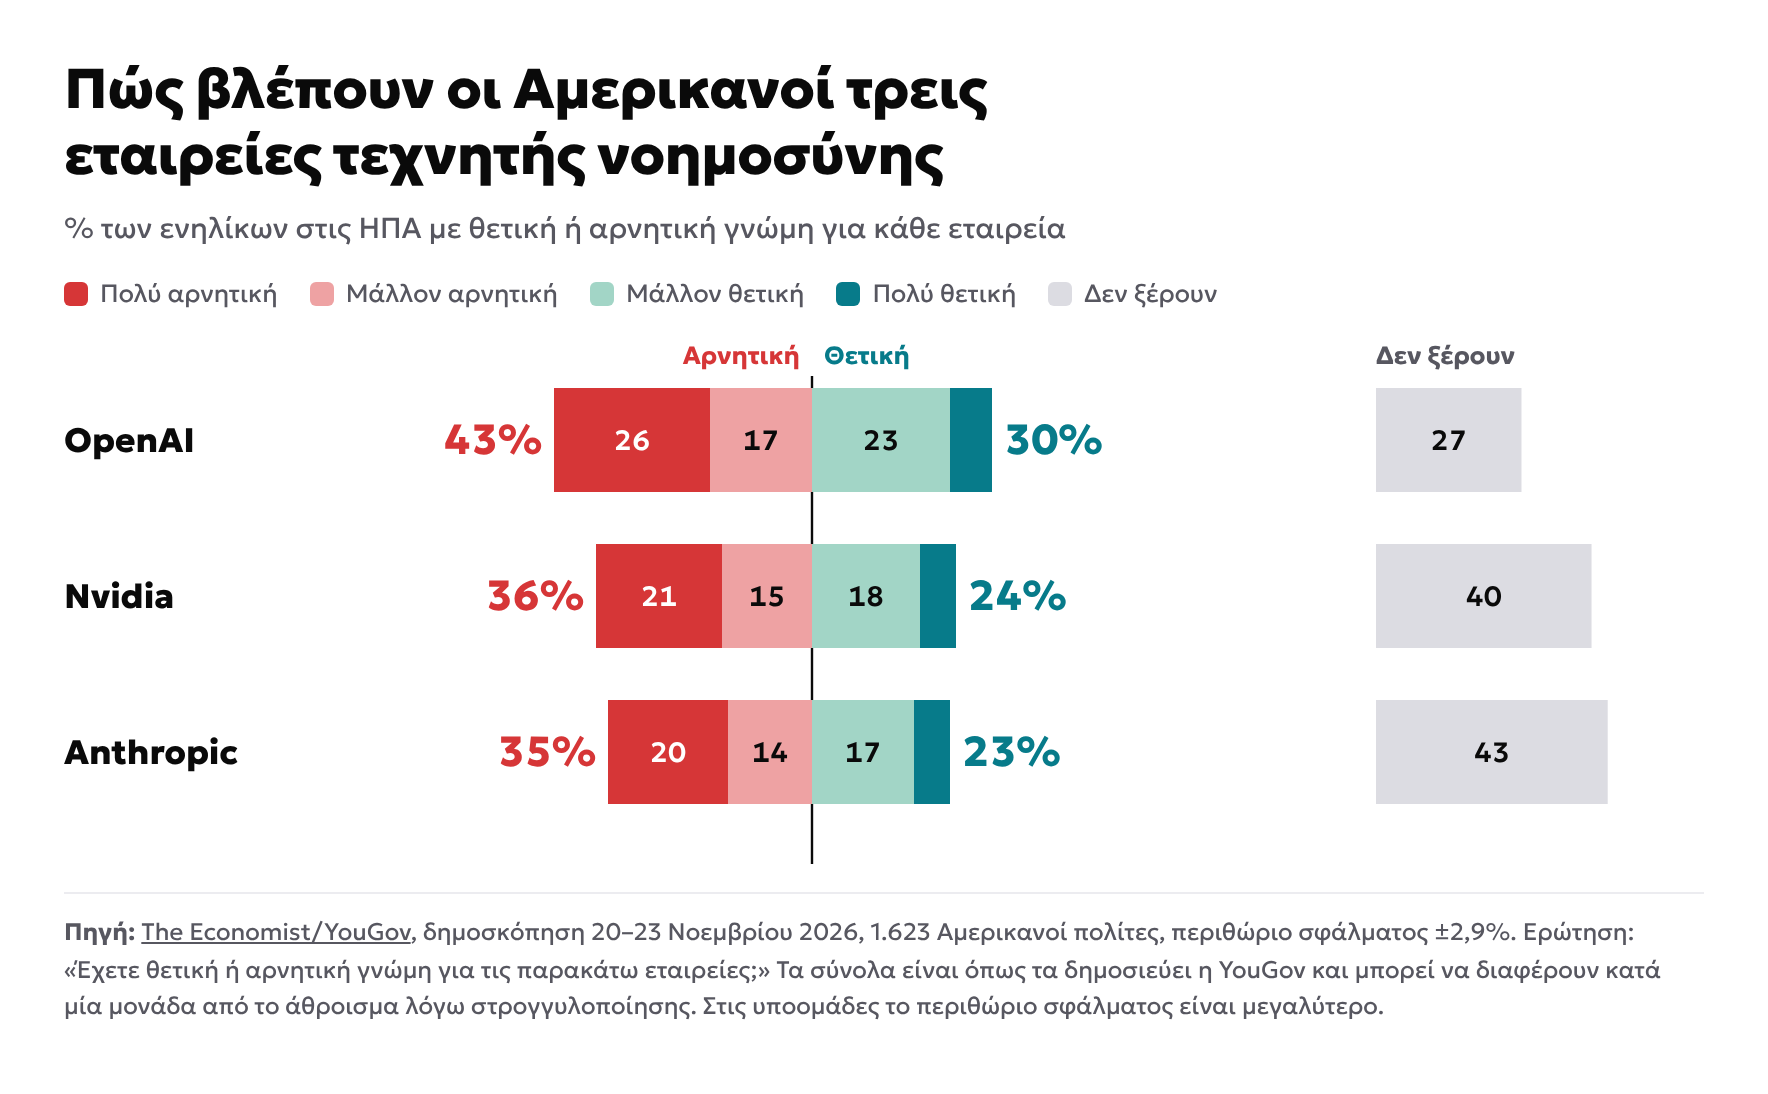
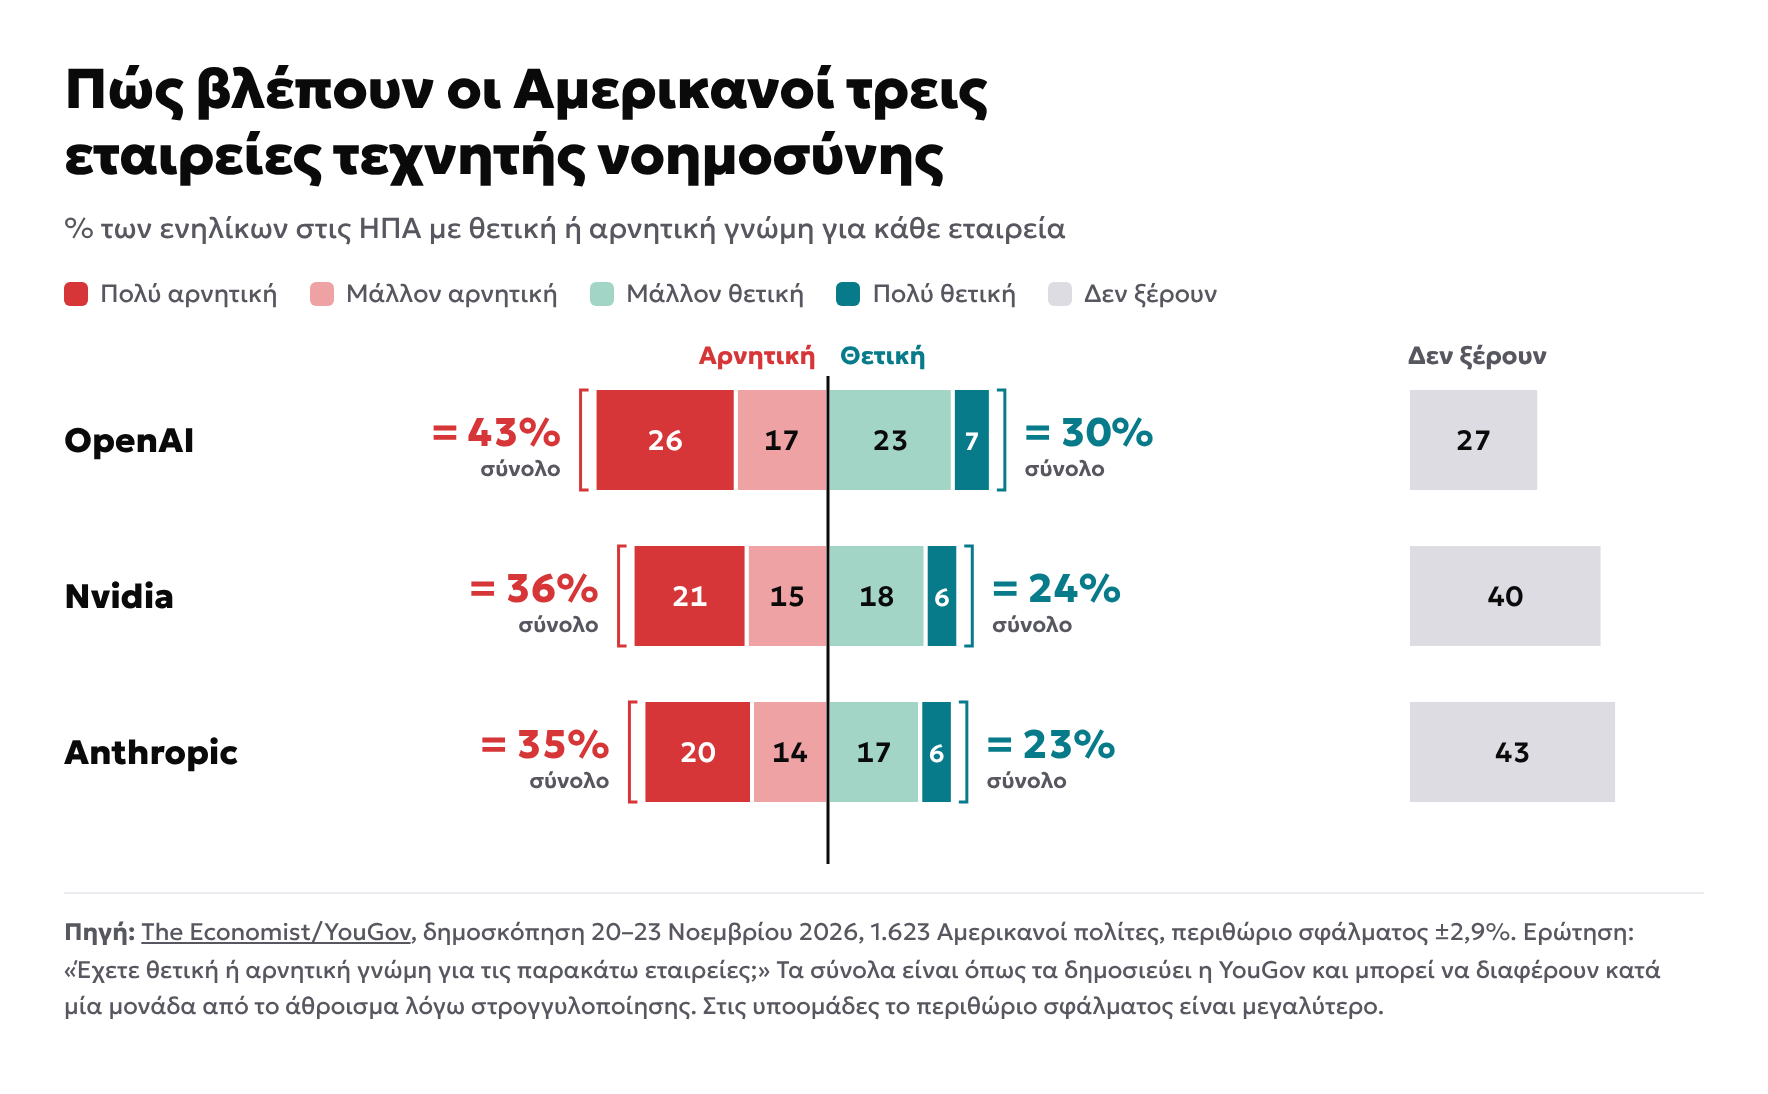
Add files via upload

diff --git a/ai-companies-favorability-2026/index.html b/ai-companies-favorability-2026/index.html
@@ -47,7 +47,9 @@ h1{font-size:clamp(20px,3.4vw,28px);line-height:1.18;font-weight:800;margin:0;te
 .lang button[aria-pressed="true"]{background:var(--fg);color:var(--bg)}
 button:focus-visible,select:focus-visible{outline:2px solid var(--vf);outline-offset:2px}
 .groups{display:flex;align-items:center;gap:8px;font-size:13px;color:var(--muted)}
-.groups select{font:600 13.5px var(--sans);padding:6px 10px;border-radius:8px;border:1px solid var(--axis);background:var(--bg);color:var(--fg);max-width:100%}
+.sel{position:relative;display:inline-block;max-width:100%}
+.sel::after{content:"";position:absolute;right:16px;top:50%;width:7px;height:7px;border-right:2px solid var(--fg);border-bottom:2px solid var(--fg);transform:translateY(-70%) rotate(45deg);pointer-events:none}
+.groups select{appearance:none;-webkit-appearance:none;font:600 13.5px var(--sans);padding:7px 44px 7px 14px;border-radius:999px;border:1px solid var(--axis);background:var(--bg);color:var(--fg);max-width:100%;cursor:pointer}
 .legend{display:flex;flex-wrap:wrap;gap:6px 16px;font-size:12.5px;color:var(--muted)}
 .legend span{display:inline-flex;align-items:center;gap:6px}
 .legend i{width:12px;height:12px;border-radius:3px;flex:none}
@@ -71,7 +73,7 @@ svg{display:block;width:100%;height:auto;font-family:var(--sans);font-variant-nu
     </div>
   </div>
   <p class="dek" id="t-dek"></p>
-  <label class="groups"><span id="l-grp"></span><select id="grp"></select></label>
+  <label class="groups"><span id="l-grp"></span><span class="sel"><select id="grp"></select></span></label>
   <div class="legend" id="legend"></div>
   <div id="chart"><svg id="svg" role="img" aria-labelledby="t-title t-dek"></svg></div>
   <div class="foot" id="foot"></div>
@@ -89,12 +91,12 @@ const T={
  el:{title:"Πώς βλέπουν οι Αμερικανοί τρεις εταιρείες τεχνητής νοημοσύνης",
      dek:"% των ενηλίκων στις ΗΠΑ με θετική ή αρνητική γνώμη για κάθε εταιρεία",grp:"Ομάδα:",
      leg:{vu:"Πολύ αρνητική",su:"Μάλλον αρνητική",sf:"Μάλλον θετική",vf:"Πολύ θετική",dk:"Δεν ξέρουν"},
-     uh:"Αρνητική",fh:"Θετική",dkh:"Δεν ξέρουν",
+     uh:"Αρνητική",fh:"Θετική",sum:"σύνολο",dkh:"Δεν ξέρουν",
      foot:'<p><b>Πηγή:</b> <a href="https://yougov.com/en-us/articles/56042-donald-trump-approval-summit-china-outages-measles-grand-theft-auto-gta6-thanksgiving-november-20-23-2026-economist-yougov-poll" target="_blank" rel="noopener">The Economist/YouGov</a>, δημοσκόπηση 20–23 Νοεμβρίου 2026, 1.623 Αμερικανοί πολίτες, περιθώριο σφάλματος ±2,9%. Ερώτηση: «Έχετε θετική ή αρνητική γνώμη για τις παρακάτω εταιρείες;» Τα σύνολα είναι όπως τα δημοσιεύει η YouGov και μπορεί να διαφέρουν κατά μία μονάδα από το άθροισμα λόγω στρογγυλοποίησης. Στις υποομάδες το περιθώριο σφάλματος είναι μεγαλύτερο.</p>'},
  en:{title:"How Americans view three artificial intelligence companies",
      dek:"% of U.S. adults with a favorable or unfavorable opinion of each company",grp:"Group:",
      leg:{vu:"Very unfavorable",su:"Somewhat unfavorable",sf:"Somewhat favorable",vf:"Very favorable",dk:"Don’t know"},
-     uh:"Unfavorable",fh:"Favorable",dkh:"Don’t know",
+     uh:"Unfavorable",fh:"Favorable",sum:"total",dkh:"Don’t know",
      foot:'<p><b>Source:</b> <a href="https://yougov.com/en-us/articles/56042-donald-trump-approval-summit-china-outages-measles-grand-theft-auto-gta6-thanksgiving-november-20-23-2026-economist-yougov-poll" target="_blank" rel="noopener">The Economist/YouGov</a> poll, Nov. 20–23, 2026, 1,623 U.S. citizens, margin of error ±2.9%. Question: “Do you have a favorable or an unfavorable opinion of the following companies?” Totals are as published by YouGov and may differ by one point from the sum because of rounding. Subgroups have larger margins of error.</p>'}
 };
 let lang="el",grp="total";
@@ -103,7 +105,7 @@ const el=(n,a,p)=>{const e=document.createElementNS(ns,n);for(const k in a)e.set
 const txt=(p,s,a)=>{const e=el("text",a,p);e.textContent=s;return e};
 function draw(){
   const t=T[lang],W=Math.max(300,Math.round(document.getElementById("chart").getBoundingClientRect().width)||900),compact=W<620;
-  const LBL=compact?0:120,DKW=compact?Math.round(W*0.24):Math.round(W*0.2),GAP=compact?14:28,TOT=compact?34:44;
+  const LBL=compact?0:120,DKW=compact?Math.round(W*0.2):Math.round(W*0.18),GAP=compact?12:28,TOT=compact?54:72;
   const rowH=compact?40:52,rowGap=compact?34:26,top=26,H=top+CO.length*(rowH+rowGap)+4;
   svg.setAttribute("viewBox",`0 0 ${W} ${H}`);svg.innerHTML="";
   const x0=LBL+TOT,x1=W-DKW-GAP-TOT,mid=(x0+x1)/2,half=(x1-x0)/2,MAX=70,sc=v=>v/MAX*half;
@@ -113,19 +115,27 @@ function draw(){
   txt(svg,t.uh,{x:mid-6,y:14,"text-anchor":"end","font-size":hs,"font-weight":700,fill:"var(--u)"});
   txt(svg,t.fh,{x:mid+6,y:14,"font-size":hs,"font-weight":700,fill:"var(--f)"});
   txt(svg,t.dkh,{x:dkx,y:14,"font-size":hs,"font-weight":700,fill:"var(--muted)"});
-  el("line",{x1:mid,x2:mid,y1:20,y2:H,stroke:"var(--fg)","stroke-width":1.2});
+    // total: a bracket around the side's two answers, then the sum, set apart from the bars
+  const total=(end,y,v,k,dir)=>{
+    const bx=end+dir*(compact?5:7),tx=bx+dir*(compact?7:10);
+    el("path",{d:`M${bx-dir*4},${y+1}H${bx}V${y+rowH-1}H${bx-dir*4}`,fill:"none",stroke:`var(--${k})`,"stroke-width":1.5});
+    const anc=dir<0?"end":"start";
+    txt(svg,"= "+v+"%",{x:tx,y:y+rowH/2+(compact?2:3),"text-anchor":anc,"font-size":compact?15:20,"font-weight":800,fill:`var(--${k})`});
+    txt(svg,t.sum,{x:tx,y:y+rowH/2+(compact?14:18),"text-anchor":anc,"font-size":compact?9.5:11,"font-weight":600,fill:"var(--muted)"});
+  };
   CO.forEach((c,i)=>{
     const d=D[c][grp];let y=top+i*(rowH+rowGap)+(compact?18:0);
     if(compact)txt(svg,c,{x:0,y:y-7,"font-size":14,"font-weight":800,fill:"var(--fg)"});
     else txt(svg,c,{x:0,y:y+rowH/2+6,"font-size":17,"font-weight":800,fill:"var(--fg)"});
-    const seg=(k,xa,w)=>{if(w<=0)return;el("rect",{x:xa,y,width:w,height:rowH,fill:`var(--${k})`});
-      if(w>=(compact?18:24))txt(svg,d[k],{x:xa+w/2,y:y+rowH/2+5,"text-anchor":"middle","font-size":compact?11.5:14,"font-weight":600,fill:`var(--on${k})`})};
+    const seg=(k,xa,w)=>{if(w<=0)return;el("rect",{x:xa,y,width:w,height:rowH,fill:`var(--${k})`,stroke:"var(--bg)","stroke-width":2});
+      if(w>=(compact?13:15))txt(svg,d[k],{x:xa+w/2,y:y+rowH/2+5,"text-anchor":"middle","font-size":w<22?(compact?10:12.5):(compact?11.5:14),"font-weight":600,fill:`var(--on${k})`})};
     let a=mid;seg("su",a-sc(d.su),sc(d.su));a-=sc(d.su);seg("vu",a-sc(d.vu),sc(d.vu));a-=sc(d.vu);
-    txt(svg,d.u+"%",{x:a-6,y:y+rowH/2+(compact?6:7),"text-anchor":"end","font-size":compact?16:21,"font-weight":800,fill:"var(--u)"});
+    total(a,y,d.u,"u",-1);
     let b=mid;seg("sf",b,sc(d.sf));b+=sc(d.sf);seg("vf",b,sc(d.vf));b+=sc(d.vf);
-    txt(svg,d.f+"%",{x:b+6,y:y+rowH/2+(compact?6:7),"font-size":compact?16:21,"font-weight":800,fill:"var(--f)"});
+    total(b,y,d.f,"f",1);
     seg("dk",dkx,dsc(d.dk));
   });
+  el("line",{x1:mid,x2:mid,y1:20,y2:H,stroke:"var(--fg)","stroke-width":1.5});
 }
 function legend(){const t=T[lang];document.getElementById("legend").innerHTML=["vu","su","sf","vf","dk"].map(k=>`<span><i style="background:var(--${k})"></i>${t.leg[k]}</span>`).join("")}
 function groups(){const s=document.getElementById("grp");s.innerHTML="";

diff --git a/world-decisions-poll-2026/index.html b/world-decisions-poll-2026/index.html
@@ -86,9 +86,9 @@ const SETS={
 const SRC="https://yougov.com/en-us/articles/56042-donald-trump-approval-summit-china-outages-measles-grand-theft-auto-gta6-thanksgiving-november-20-23-2026-economist-yougov-poll";
 const T={
  el:{title:"Ποιος πρέπει να αποφασίζει για τον κόσμο: η γνώμη των Αμερικανών",
-     dek:"% των ενηλίκων στις ΗΠΑ που πιστεύουν ότι ο κόσμος είναι καλύτερα όταν…",
+     dek:"% των ενηλίκων στις ΗΠΑ που πιστεύουν ότι ο κόσμος είναι καλύτερος όταν…",
      leg:{p:"…αποφασίζουν οι ισχυρότερες χώρες",a:"…όλες οι χώρες έχουν λόγο",n:"Δεν είναι σίγουροι"},
-     foot:`<p><b>Πηγή:</b> <a href="${SRC}" target="_blank" rel="noopener">The Economist/YouGov</a>, δημοσκόπηση 20–23 Νοεμβρίου 2026, 1.623 Αμερικανοί πολίτες, περιθώριο σφάλματος ±2,9%. Ερώτηση 29: «Πιστεύετε ότι ο κόσμος είναι καλύτερα όταν…;» Στις υποομάδες το περιθώριο σφάλματος είναι μεγαλύτερο. Ορισμένα σύνολα δεν είναι ακριβώς 100% λόγω στρογγυλοποίησης.</p>`},
+     foot:`<p><b>Πηγή:</b> <a href="${SRC}" target="_blank" rel="noopener">The Economist/YouGov</a>, δημοσκόπηση 20–23 Νοεμβρίου 2026, 1.623 Αμερικανοί πολίτες, περιθώριο σφάλματος ±2,9%. Ερώτηση 29: «Πιστεύετε ότι ο κόσμος είναι καλύτερος όταν…;» Στις υποομάδες το περιθώριο σφάλματος είναι μεγαλύτερο. Ορισμένα σύνολα δεν είναι ακριβώς 100% λόγω στρογγυλοποίησης.</p>`},
  en:{title:"Who should make the decisions for the world: Americans’ view",
      dek:"% of U.S. adults who think the world is better off when…",
      leg:{p:"…the most powerful countries make the decisions",a:"…all countries have a say",n:"Not sure"},

diff --git a/nation-brands-index-2008-2026/index.html b/nation-brands-index-2008-2026/index.html
@@ -162,8 +162,9 @@ const status=(c,y)=>S[c][y]!=null?S[c][y]:(DATA.years[y].full?"·":"–");
 const DEFAULT=["Greece","United States","Italy","Türkiye"];
 let lang="el",sel=[...DEFAULT],colors={};
 const NK=8;
-function assign(){const used=new Set();const next={};for(const c of sel){if(colors[c]!=null&&!used.has(colors[c])){next[c]=colors[c];used.add(colors[c])}}
-  for(const c of sel){if(next[c]!=null)continue;let k=c==="Greece"&&!used.has(0)?0:null;if(k==null){for(let i=1;i<NK;i++)if(!used.has(i)){k=i;break}}if(k==null)k=c==="Greece"?0:1+sel.indexOf(c)%(NK-1);next[c]=k;used.add(k)}
+function assign(){const used=new Set();const next={};const FIX={"United States":0,"Türkiye":1,"Greece":4};for(const c of sel)if(FIX[c]!=null){next[c]=FIX[c];used.add(FIX[c])}
+  for(const c of sel){if(next[c]==null&&colors[c]!=null&&!used.has(colors[c])){next[c]=colors[c];used.add(colors[c])}}
+  for(const c of sel){if(next[c]!=null)continue;let k=null;if(k==null){for(let i=1;i<NK;i++)if(!used.has(i)){k=i;break}}if(k==null)k=1+sel.indexOf(c)%(NK-1);next[c]=k;used.add(k)}
   colors=next}
 const col=c=>`var(--k${colors[c]})`;
 const nm=(c,short)=>lang==="el"?((short&&EL_SHORT[c])||EL[c]||c):((short&&EN_SHORT[c])||c);
@@ -195,7 +196,7 @@ function draw(){
   const labels=[];
   for(const c of [...sel].reverse()){
     const pts=Object.keys(S[c]).map(Number).sort((a,b)=>a-b).map(y=>[y,S[c][y]]);if(!pts.length)continue;
-    const g=el("g",{});const k=col(c),hl=c==="Greece";
+    const g=el("g",{});const k=col(c),hl=c==="United States";
     for(let i=1;i<pts.length;i++){const [ya,ra]=pts[i-1],[yb,rb]=pts[i];
       el("line",{x1:X(ya),y1:Y(ra),x2:X(yb),y2:Y(rb),stroke:k,"stroke-width":hl?3.4:2.4,"stroke-dasharray":yb-ya>1?"2 5":"","stroke-linecap":"round"},g)}
     for(const [y,r] of pts)el("circle",{cx:X(y),cy:Y(r),r:hl?4.2:3.4,fill:k,stroke:"var(--bg)","stroke-width":1.5},g);

diff --git a/ess/index.html b/ess/index.html
@@ -241,7 +241,7 @@ const fmt=(v,d=0)=>(v).toLocaleString(L==="el"?"el-GR":"en-GB",{minimumFractionD
 const pct=x=>x==null?"–":(x>=995?fmt(x/10):x<5&&x>0?"<1":fmt(Math.round(x/10)))+"%";
 const esc=s=>String(s).replace(/[&<>"]/g,c=>({"&":"&amp;","<":"&lt;",">":"&gt;",'"':"&quot;"}[c]));
 const tx=(q,k)=>(L==="el"&&q[k+"_el"])||q[k];
-async function load(cc){if(!cache[cc]){const r=await fetch(`d/${cc}.json`);cache[cc]=await r.json()}return cache[cc]}
+async function load(cc){if(!cache[cc]){const r=await fetch(`d/${cc}.json?v=20261125c`,{cache:"no-cache"});cache[cc]=await r.json()}return cache[cc]}
 
 function controls(){
   const t=T[L];
@@ -390,7 +390,7 @@ $("b-el").onclick=()=>setLang("el");$("b-en").onclick=()=>setLang("en");
 window.addEventListener("scroll",()=>$("toTop").classList.toggle("on",scrollY>900),{passive:true});
 $("toTop").onclick=()=>scrollTo({top:0,behavior:"smooth"});
 (async()=>{
-  META=await (await fetch("meta.json")).json();
+  META=await (await fetch("meta.json?v=20261125c",{cache:"no-cache"})).json();
   $("b-el").setAttribute("aria-pressed",L==="el");$("b-en").setAttribute("aria-pressed",L==="en");controls();await render();setTop();
   try{const h=location.hash.slice(1);if(h){const el=document.getElementById(h);if(el)el.scrollIntoView()}}catch(e){}
 })();

diff --git a/ess/q.html b/ess/q.html
@@ -273,9 +273,9 @@ let rw=0;new ResizeObserver(()=>{const w=Math.round($("c-rank").getBoundingClien
 (async()=>{
   setLang(L);
   let id="A4";try{const h=location.hash.slice(1);if(h)id=h}catch(e){}
-  META=await (await fetch("meta.json")).json();
+  META=await (await fetch("meta.json?v=20261125c",{cache:"no-cache"})).json();
   Q=META.questions.find(q=>q.id===id)||META.questions.find(q=>q.id==="A4");
-  D=(await (await fetch("trends.json")).json())[Q.id]||{};
+  D=(await (await fetch("trends.json?v=20261125c",{cache:"no-cache"})).json())[Q.id]||{};
   sel=sel.filter(c=>D[c]);assign();render();
 })();
 window.addEventListener("hashchange",()=>location.reload());
